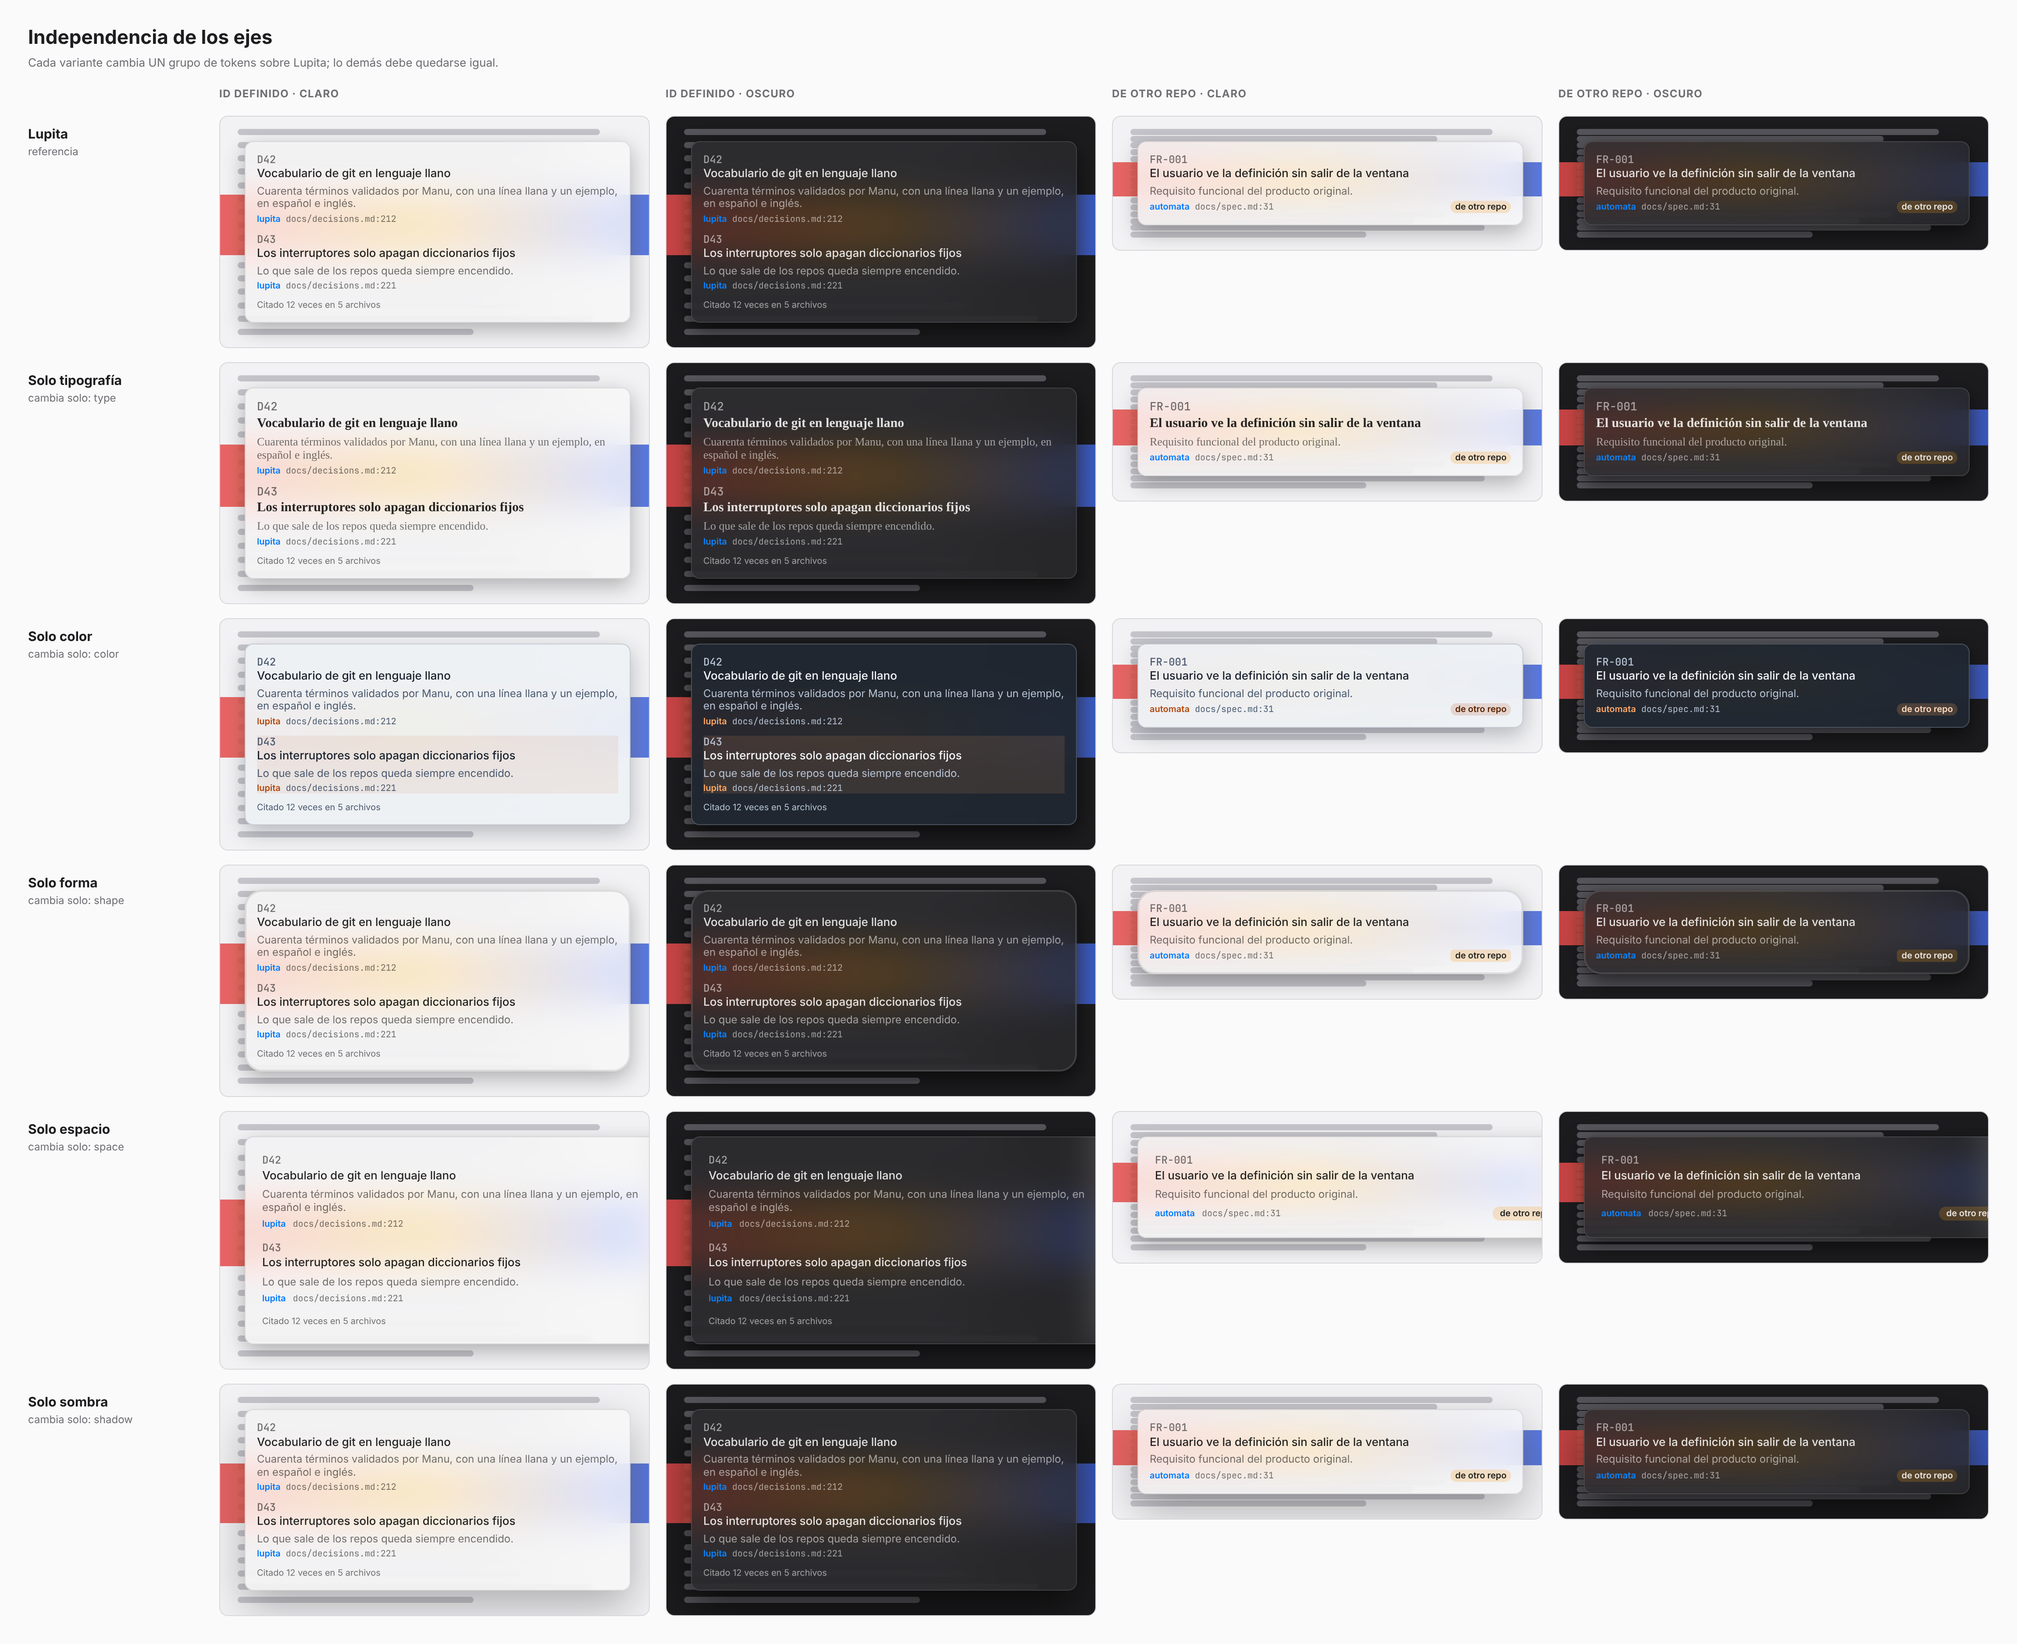
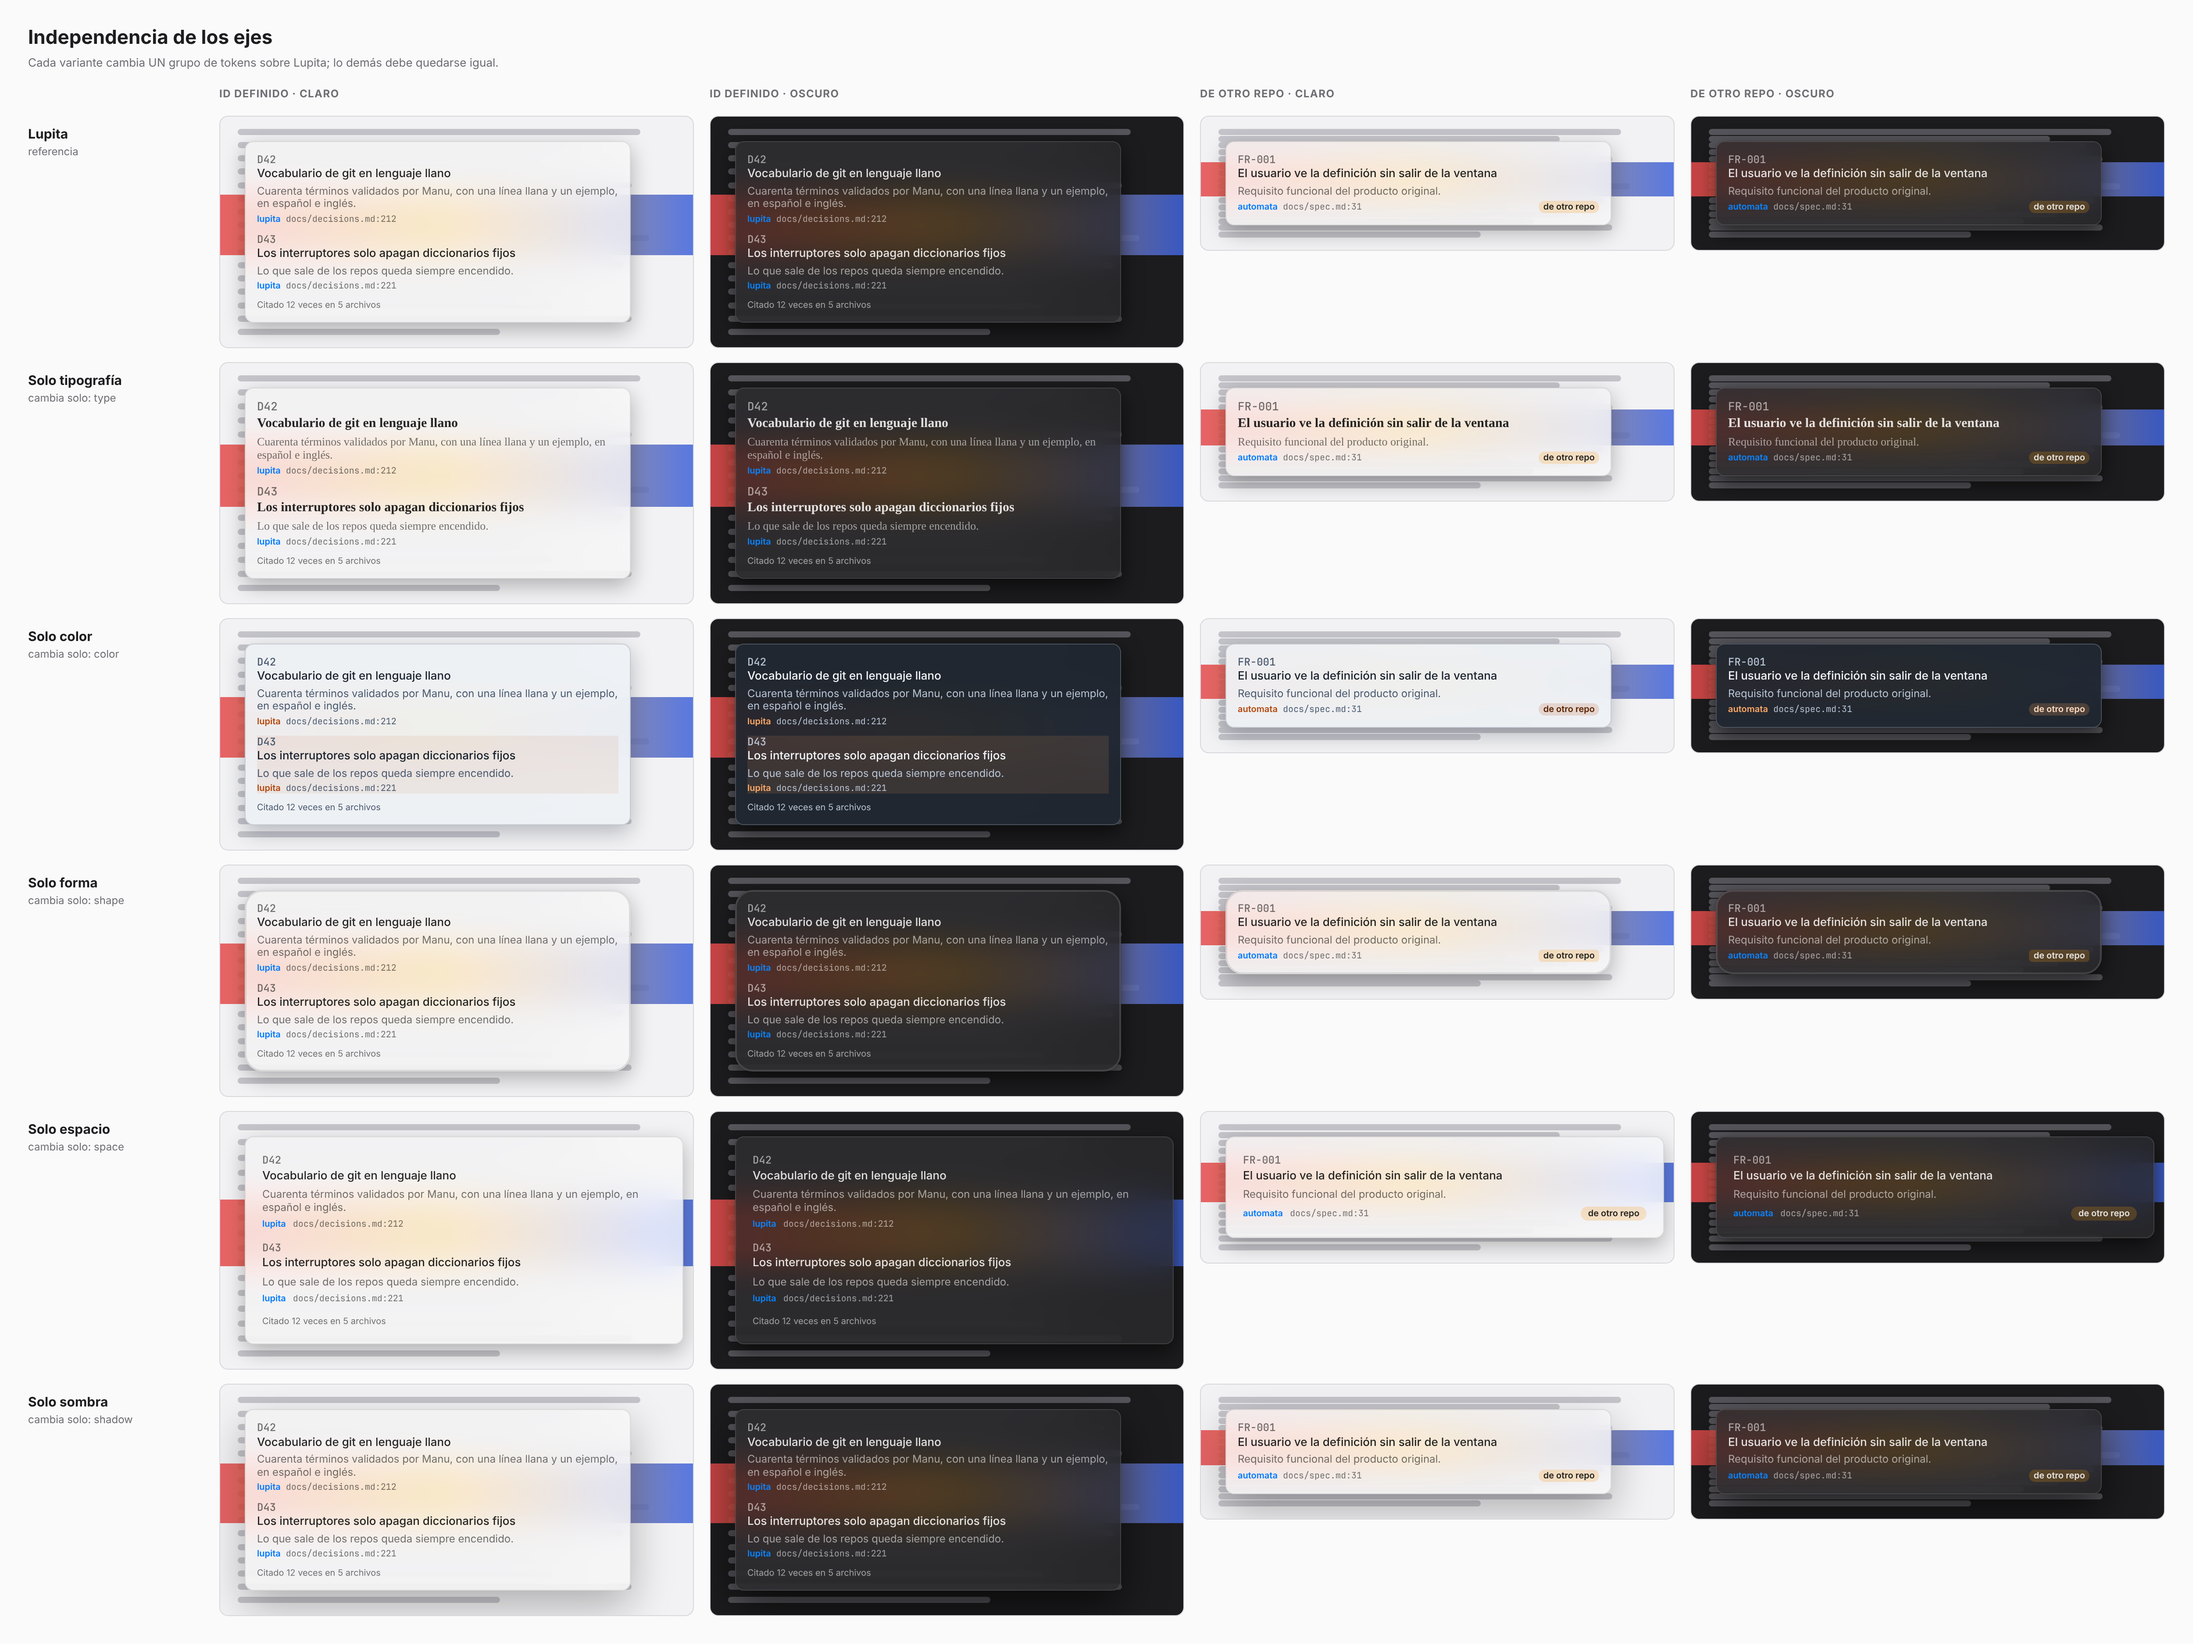
docs(design-system): D54, glossary, sheet check
Claude-Session: https://claude.ai/code/session_011VK4njJzZ9NLkrm3wfYDtw

diff --git a/docs/decisions.md b/docs/decisions.md
@@ -267,3 +267,6 @@ The first time this version runs, Lupita adds itself as a login item (`SMAppServ
 
 ## D53 — Symbols are underlined as a second layer
 While ⌃⌥⌘ is held, the first marks appear as before; then words shaped like code symbols (`build_glyphs`, `ARM_TENSION`, `bakeBowlStemOpen`, `slider()`, or in a code font) that no mark covers are looked up in parallel with the tooltip's own search, and each one defined in a repo gets the solid line as its answer comes back. At most 60 names per hold; letting go, scrolling or switching app stops the lookups not yet started. Measured on Manu's repos with 20 names: the first symbol marks after 20-60 ms, half by about 110 ms, all by 0.4-0.5 s. Names only used, never defined (`localStorage`, `node_modules`), are not marked, as the tooltip has nothing to show. Reopens D39's «never symbols»: the cost is still there, but it no longer delays the rest. Why: Manu asked to reveal the underline in layers so slow lookups do not matter, 2026-10-27.
+
+## D54 — The tooltip has a design system and themes
+The look of the tooltip is described by tokens in three layers (primitive scales → semantic roles → component use), in `docs/design-system/`, so a theme changes it without touching the views. Eleven text roles in a fixed hierarchy (title, id, description, repo, location, badge, eyebrow, footnote, placeholder, swatch, notice); colour per role with a light and a dark value; radius, border, space and shadow as named scales. Five groups (type, color, shape, space, shadow) change independently, which a script proves with five single-group variants. Fonts are the four SwiftUI designs only (`default`, `serif`, `rounded`, `monospaced`), so no theme needs a font file. Ten themes (Lupita, Papel, Terminal, Neón, Compacto, Grande, Brutalista, Cristal, Mimo, Blueprint) show the range; the default, Lupita, reproduces 0.9.0 (51 parity checks). Why: the style was 53 loose lines in `TooltipPanel.swift`, so changing the design meant touching every view; Manu wants themes (backlog, 2026-10-24). Proposed in an autonomous run, HTML and JSON only: no Swift changed, no theme selector, and whether themes are downloadable, customisable or paid stays open. The port to SwiftUI is a separate run on the Mac.

diff --git a/docs/glossary.md b/docs/glossary.md
@@ -3,3 +3,8 @@
 - **scope** — elemento `.scope` del prototipo que lleva las variables CSS de un tema y modo; el tooltip se pinta dentro.
 - **stage** — fondo falso (líneas grises y una banda de color) sobre el que se dibuja un tooltip para que se vea la translucidez.
 - **overflow check** — comprobación de `render-sheets.mjs`: ningún texto se desborda y el ancho renderizado es `size.width`.
+- **token semántico** — valor de estilo con nombre de rol (`text.title`, `radius.container`); el tema lo cambia y el componente solo lo referencia.
+- **tema** — conjunto de overrides de tokens (tipografía, color, forma, espacio, sombra), con claro y oscuro, sobre el tema base «Lupita».
+- **grupo (de tokens)** — uno de los cinco ejes independientes: type, color, shape, space, shadow.
+- **variante** — tema que cambia un solo grupo sobre Lupita, para demostrar la independencia (`variants/ind-*.json`).
+- **baseline** — marca de un tema cuyos fallos de contraste se avisan y no fallan: hoy solo Lupita, que conserva los colores del sistema.
